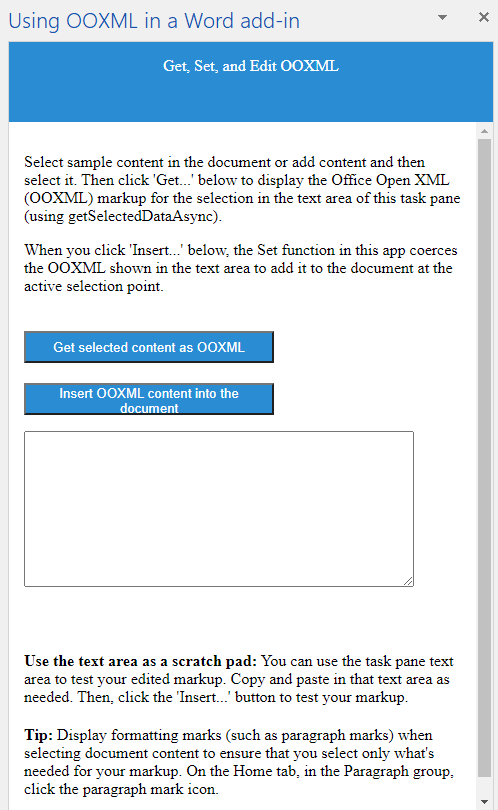
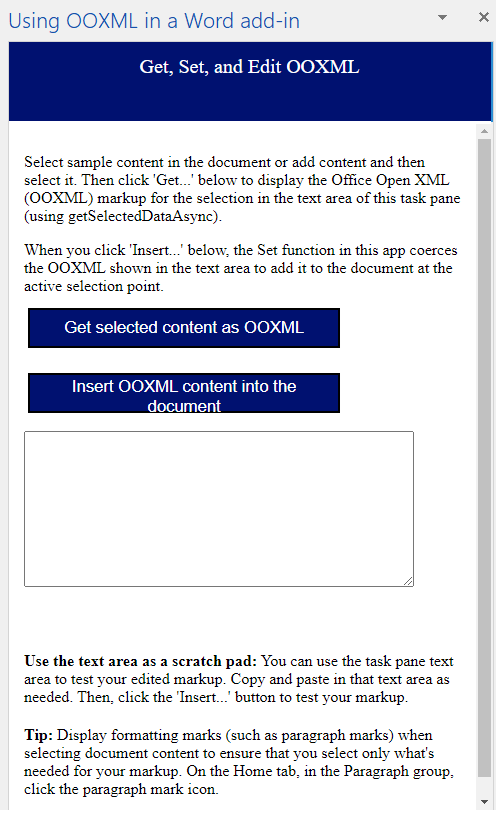
make Word OOXML sample accessibility compliant

diff --git a/Samples/word-add-in-get-set-edit-openxml/C#/WD_OpenXML_jsWeb/App/App.css b/Samples/word-add-in-get-set-edit-openxml/C#/WD_OpenXML_jsWeb/App/App.css
@@ -1,7 +1,7 @@
 /* Common app styling */
 
 #content-header {
-    background: #2a8dd4;
+    background: #001170;
     color: #fff;
     position: absolute;
     top: 0;

diff --git a/Samples/word-add-in-get-set-edit-openxml/C#/WD_OpenXML_jsWeb/App/WD_OpenXML_js/WD_OpenXML_js.css b/Samples/word-add-in-get-set-edit-openxml/C#/WD_OpenXML_jsWeb/App/WD_OpenXML_js/WD_OpenXML_js.css
@@ -1,7 +1,7 @@
 /* Page-specific styling */
 
 button{
-    background: #2a8dd4;
+    background: #001170;
     color:white;
     width: 250px;
     height:32px;
